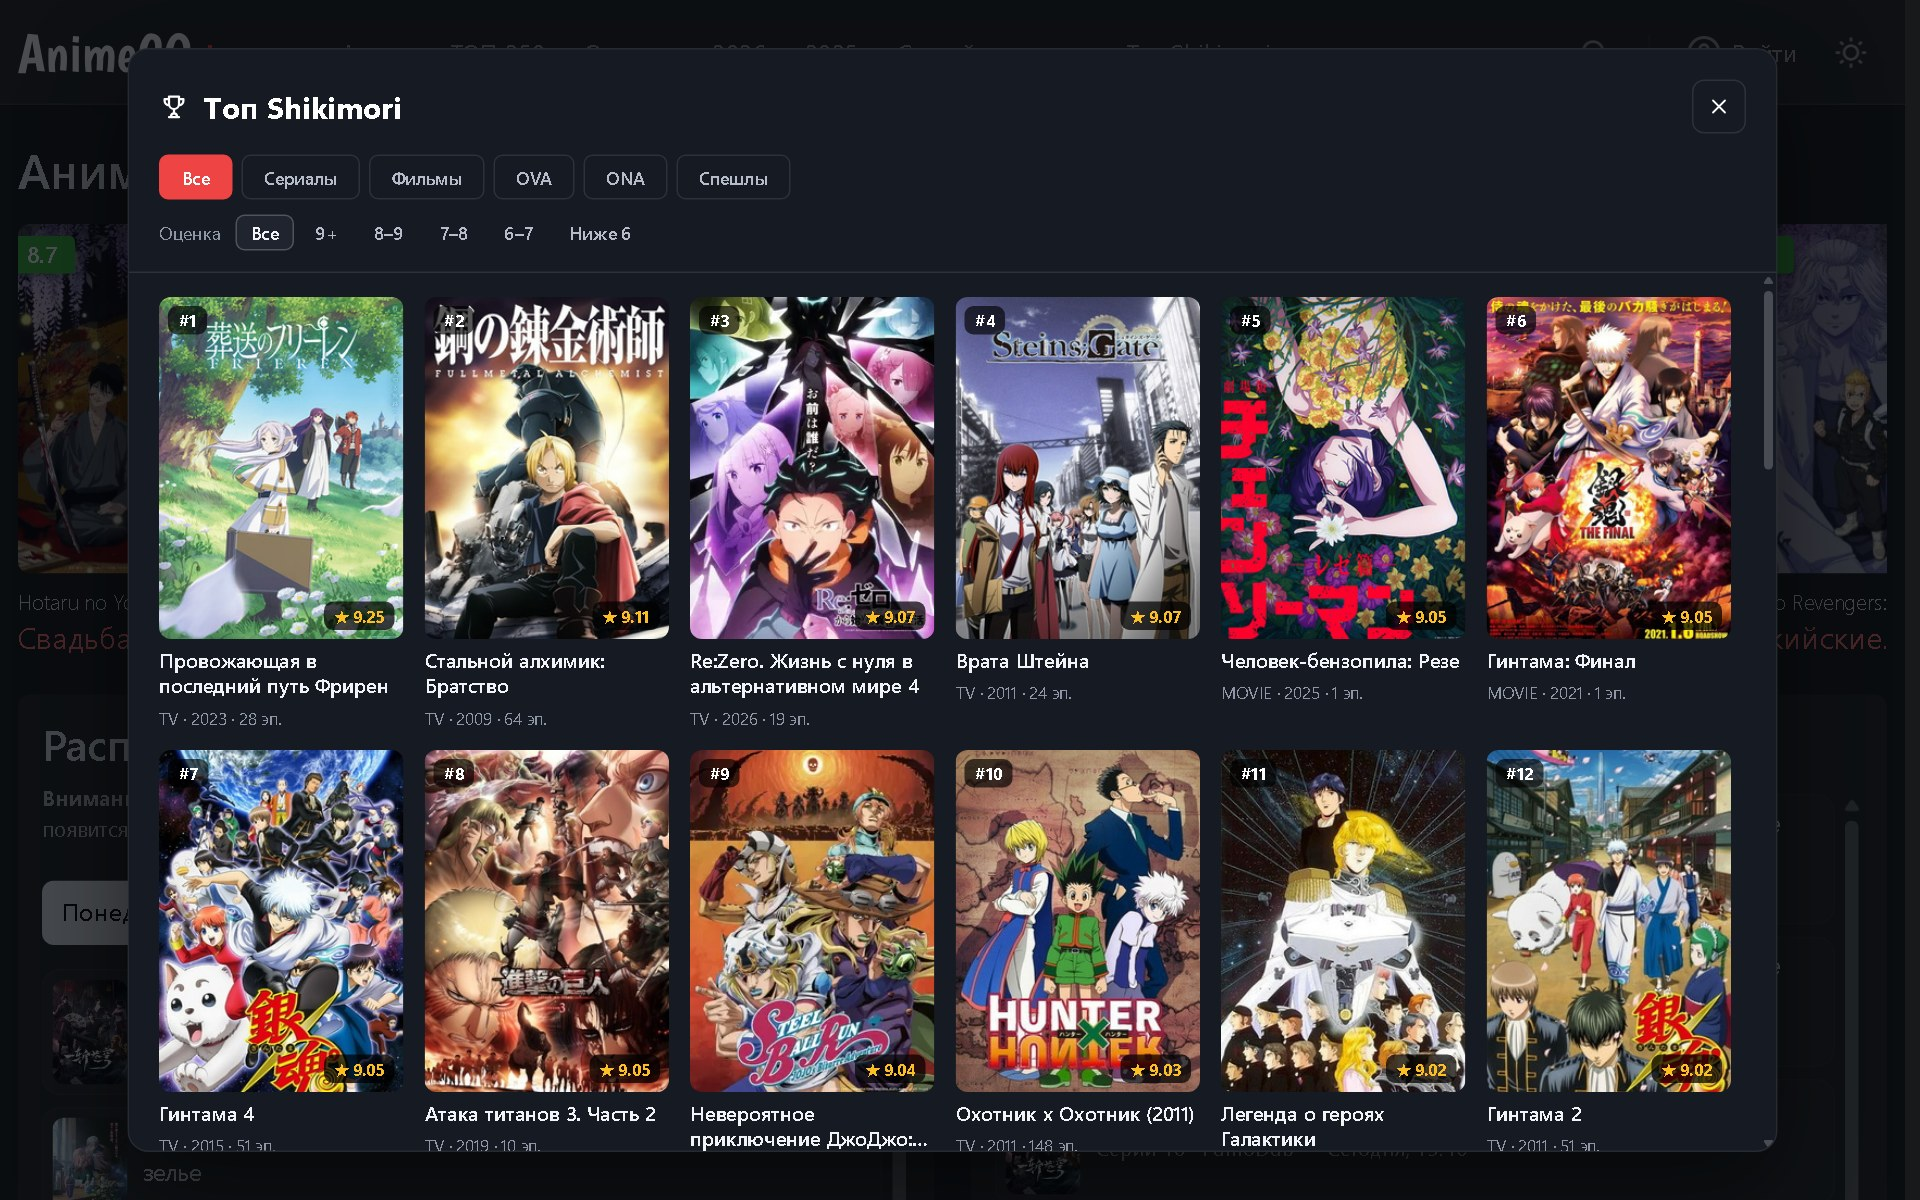
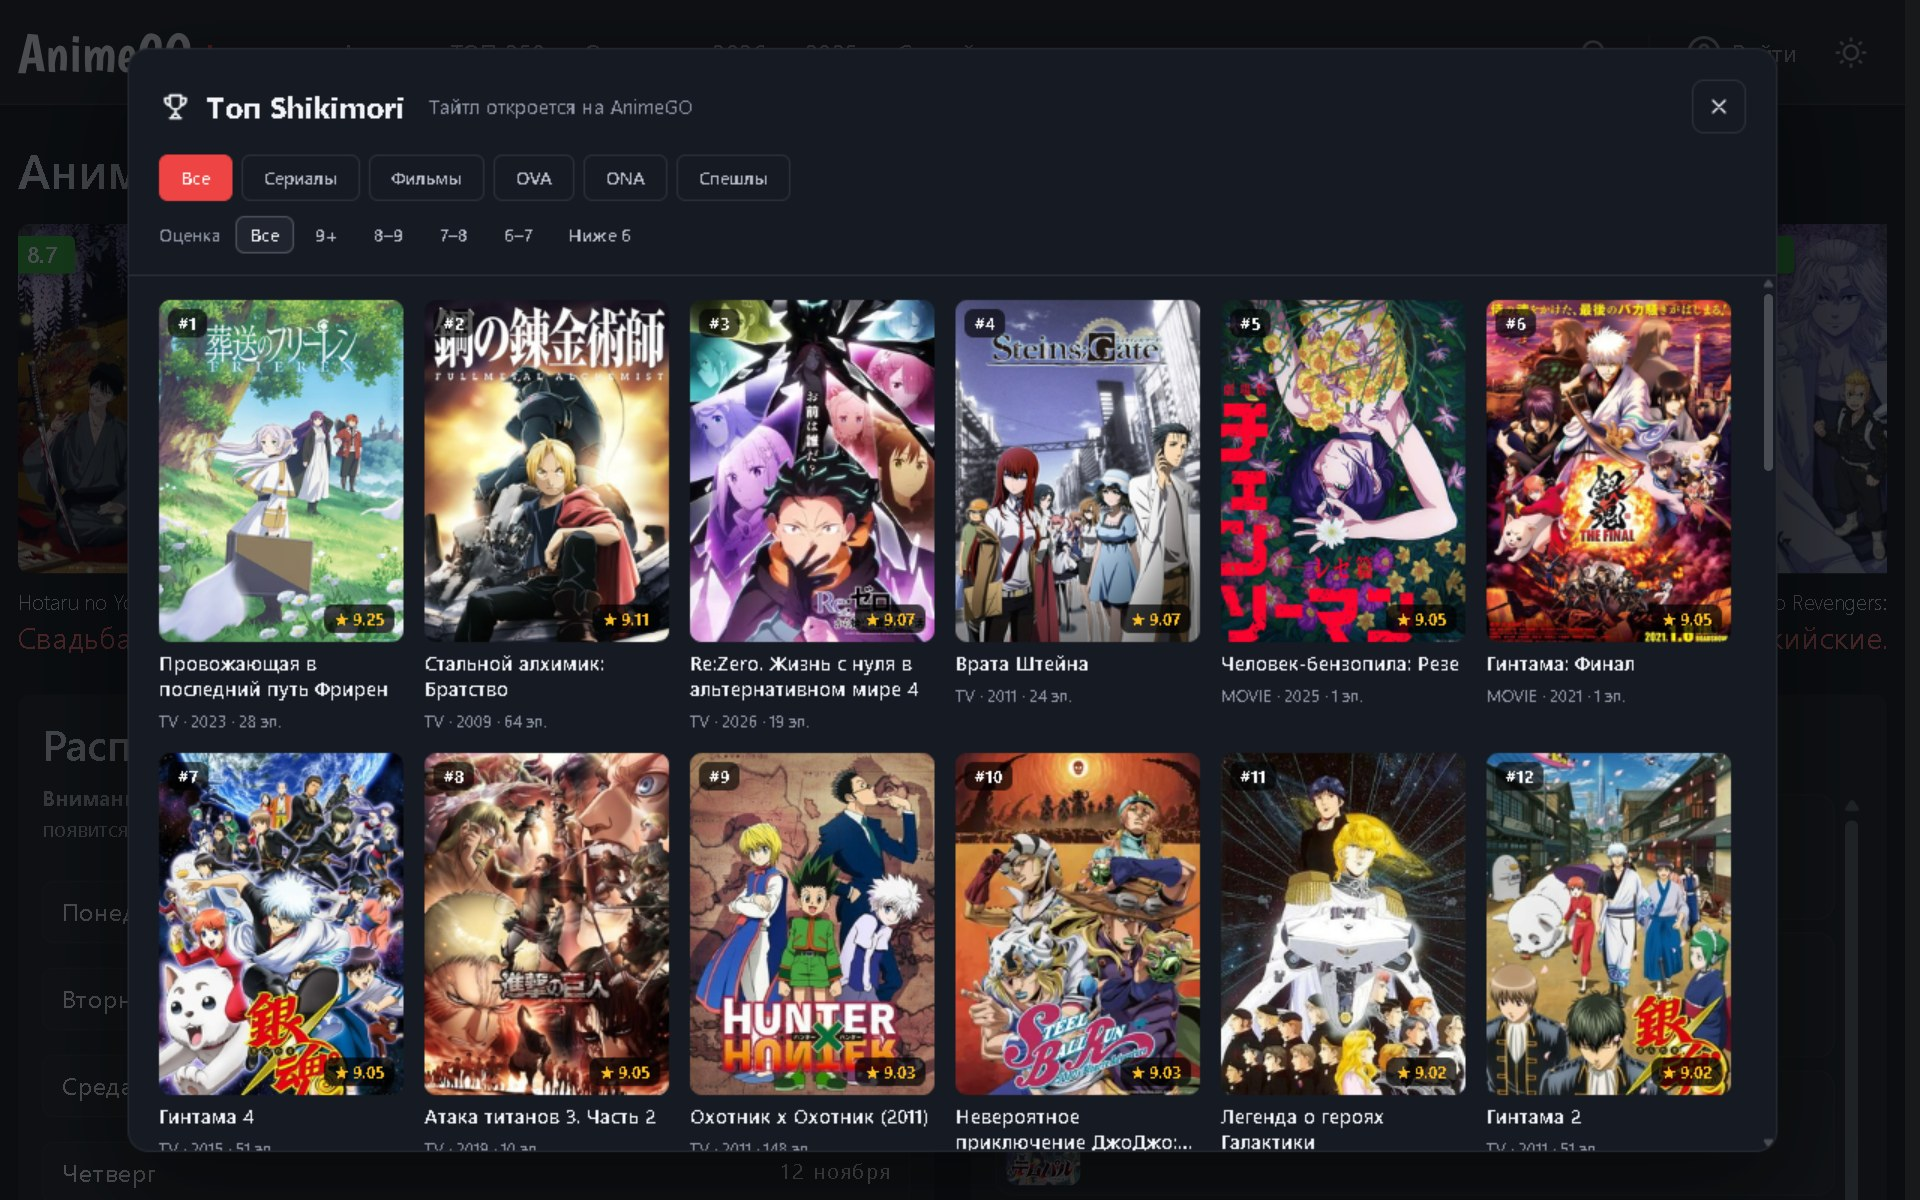
README: снимки 11.2.0 — лиса на сайтах, Топ поверх сайта и вкладка с выбором сайта, обновлённые задания

diff --git a/README.md b/README.md
@@ -218,12 +218,26 @@ AnimeVost часто меняет адрес. Все зеркала на vost.pw
 </details>
 
 <details>
+<summary><b>🦊 Лиса на сайтах</b></summary>
+<br>
+
+| Меню лисы на странице тайтла |
+| :---: |
+| <img src="assets/fox_dock.jpg" width="700" alt="Значок лисы с открытым меню: оценка Shikimori, Топ и случайное аниме" /> |
+
+</details>
+
+<details>
 <summary><b>🏆 Топ Shikimori</b></summary>
 <br>
 
-| Весь рейтинг | Переход по оценкам |
+| Весь рейтинг поверх сайта | Переход по оценкам |
 | :---: | :---: |
-| <img src="assets/top_overlay.jpg" width="450" alt="Окно Топа Shikimori" /> | <img src="assets/top_scores.jpg" width="450" alt="Топ Shikimori с оценками от 7 до 8" /> |
+| <img src="assets/top_overlay.jpg" width="450" alt="Окно Топа Shikimori поверх сайта" /> | <img src="assets/top_scores.jpg" width="450" alt="Топ Shikimori с оценками от 7 до 8" /> |
+
+| Вкладка из окна расширения с выбором сайта |
+| :---: |
+| <img src="assets/top_pick.jpg" width="700" alt="Вкладка Топа с выпадающим списком сайтов" /> |
 
 </details>
 
